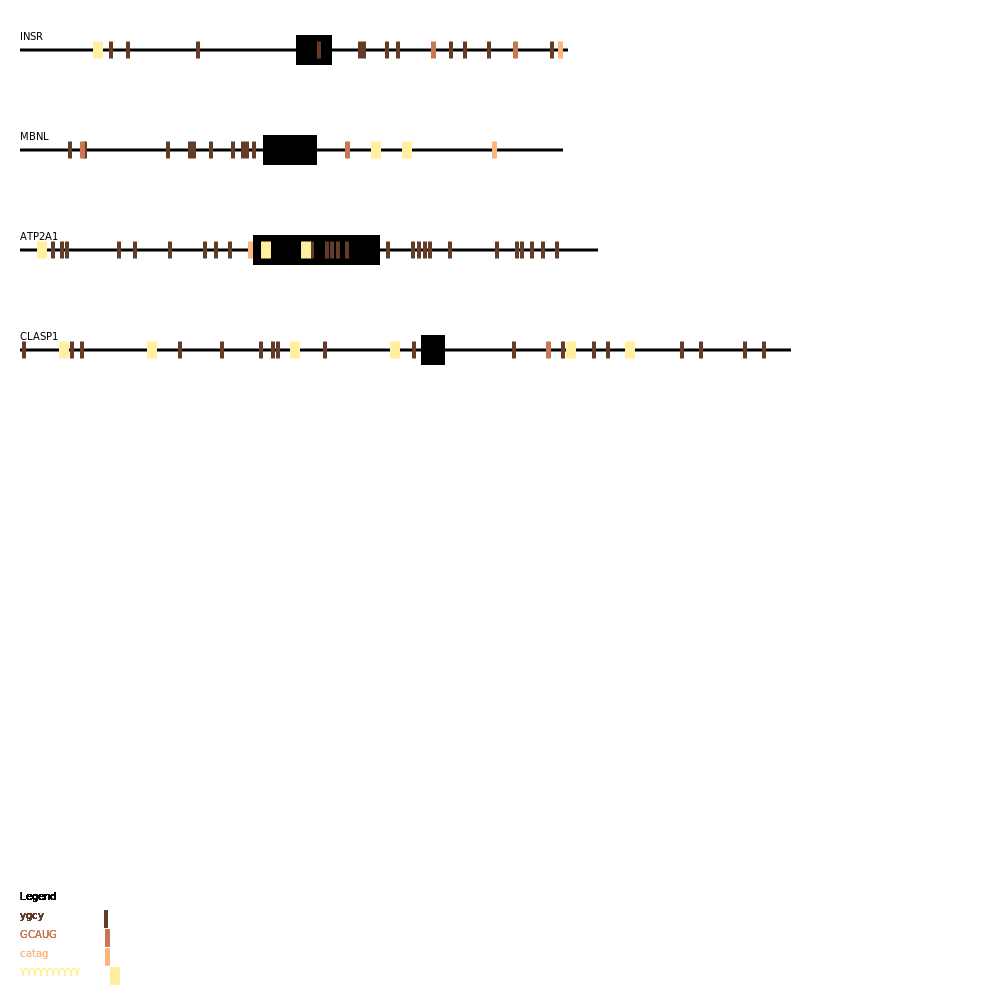
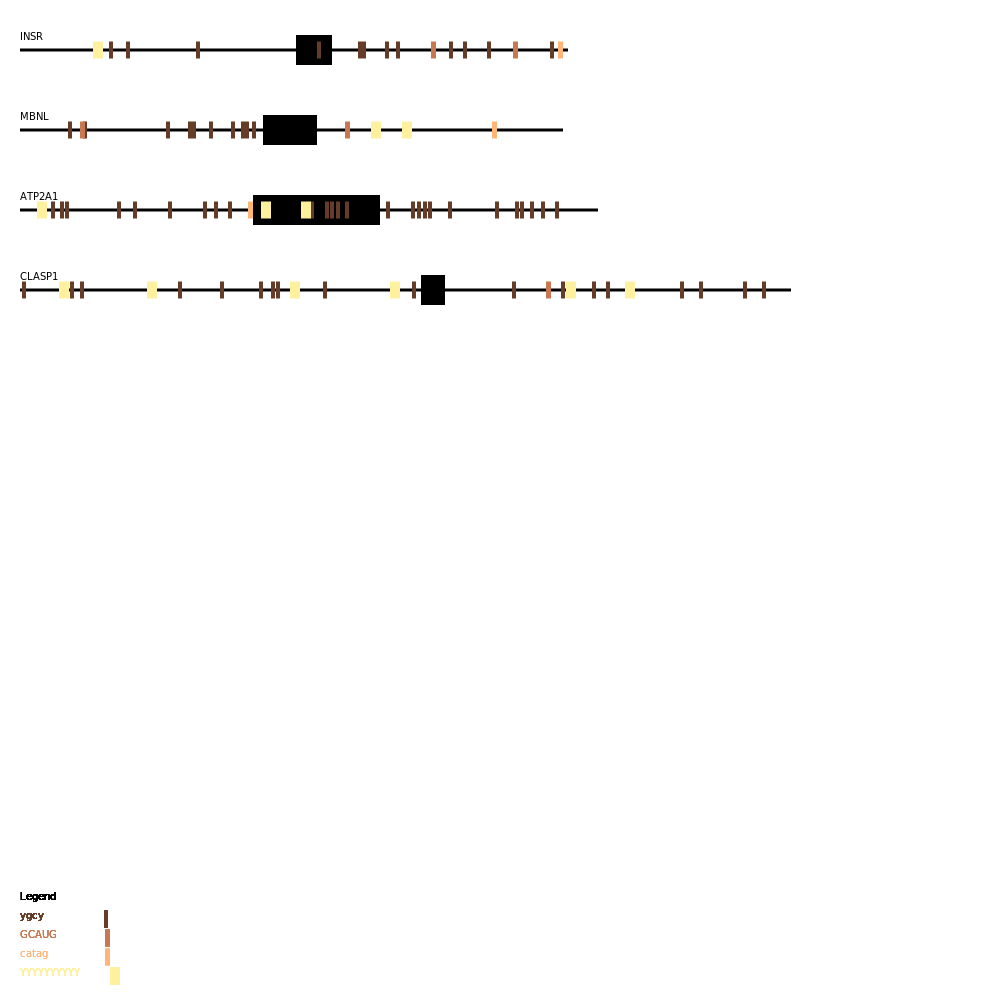
final script and png

Changed region(s): [[0.0, 0.093, 0.775, 0.372]]

diff --git a/motif-mark-oop.py b/motif-mark-oop.py
@@ -57,17 +57,13 @@ motifRegDict = {
 }
 
 #image dimensions:
-width, height = 1000, 1000
+width, height = 1100, 1000
 #setting up pycairo image dimensions:
 surface = cairo.ImageSurface(cairo.FORMAT_ARGB32, width, height)
 context = cairo.Context(surface)
 context.set_source_rgba(1, 1, 1, 1)
 
 context.paint()
-
-# #counter to increment the different RGBA colors: 
-# color_counter = 0
-
 
 ###############
 ## Functions ##
@@ -198,10 +194,6 @@ class Motif:
 # directly or indirectly everything above it).
     
 
-#maybe will make a function that takes a oneline fasta and gives a list of genes:
-def build_genes(oneline_fasta_filename: str) -> list[Gene]:
-    pass 
-
 #getting the motifs:
 with open(args.motifs, "r") as input_motifs:
     dictCounter = 0
@@ -211,13 +203,8 @@ with open(args.motifs, "r") as input_motifs:
             break
         dictCounter += 1
         print(f'--->motifs:{dictCounter=}')
-        # match_gene_name = re.findall(r'>([A-Za-z0-9]+)', line)
-        # match_motif = re.search(r'(([c|t]gc[c|t])', line)
-
-
-
-        # motifDict[line] = ((len(line)*20/255),(len(line)*25)/255,40/255,.5)
-        # motifDict[line] = (((len(line)/2)**5)/255,(((len(line)/2)**3)/255),((len(line)/2)**5)/255,.5)
+        
+        #generate the most distinct rgba colors using the counter(played around with different numbers):
         motifDict[line] = ((dictCounter*100)/255, (dictCounter*60)/255, (dictCounter*40)/255)
 
     print(motifDict.values())
@@ -241,16 +228,12 @@ with open(f'{f}_oneline', "r") as input_fasta:
         if(header == []):
             break
 
-        # print(header)
-        #print(header[0])
-        #print(sequence)
-
         gene_name = header[0][1:]
         print(f'--------------{gene_name=}----------------------')
 
         gene_len = len(sequence[0])
-        gene = Gene(header[0][1:], gene_len)
-        gene.draw_gene(20, 50+i, header[0][1:], gene_len)
+        gene_obj = Gene(header[0][1:], gene_len)
+        gene_obj.draw_gene(20, 50+i, header[0][1:], gene_len)
         
         print(f'{gene_len=}')
 
@@ -263,18 +246,14 @@ with open(f'{f}_oneline', "r") as input_fasta:
             exon_x = m.span()[0]
             exon_y = m.span()[1]
         
-        # print(exon_x)
-        # print(exon_y)
-
-
         exon_len = exon_y - exon_x #exon len = end - start
         print(f'{exon_len=}')
         
 
 
-        exon1 = Exon(0, exon_len, "red", gene_name)
+        exon_obj = Exon(20+exon_x, exon_len, "color", gene_name)
         # x: int, y: int, exon_len: int
-        exon1.draw_exon(20+exon_x, 50+i, exon_len)
+        exon_obj.draw_exon(20+exon_x, 50+i, exon_len)
 
         ### Motifs ###
         z = 0
@@ -287,16 +266,14 @@ with open(f'{f}_oneline', "r") as input_fasta:
             for m in motif_re.finditer(sequence[0]):
                 #print(m.span())
                 motif_len = m.span()[1] - m.span()[0]
-                motif4 = Motif(f"{motif}", "gene", 1,2,"green")
-                motif4.draw_motif(20 + m.span()[0], 50+i, motif_len)
-
-        i += 100
-        print(f'i={i}')
-
-#context.fill()
-#surface.finish()
-
-surface.write_to_png(f'{f}.png') 
+                motif_obj = Motif(f"{motif}", gene_name, 1,2,"color")
+                motif_obj.draw_motif(20 + m.span()[0], 50+i, motif_len)
+        #add 80 each time the script goes through a new gene. This is so that I can graph each gene 80 pixels apart. #
+        i += 80
+        print(f'y position counter: {i=}')
 
 
-# ./motif-mark-oop.py -f Figure_1.fasta -m Fig_1_motifs.txt -w oneline.fa -ol oneline.fa
+#output the file as .png. Note: I do f[:-6] to remove ".fasta" from filename
+surface.write_to_png(f'{f[:-6]}.png') 
+
+# ./motif-mark-oop.py -f Figure_1.fasta -m Fig_1_motifs.txt
